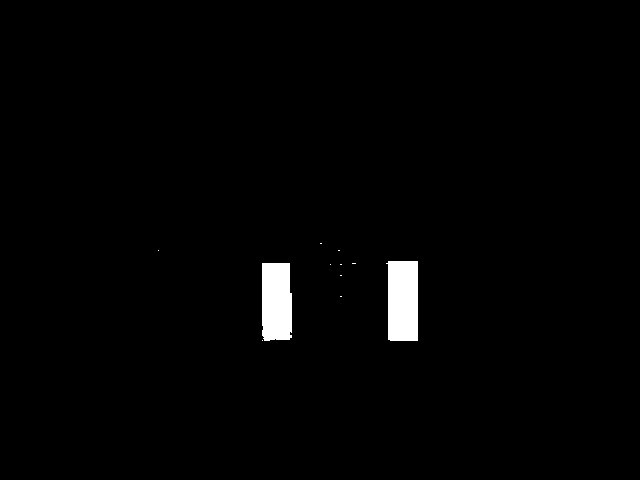
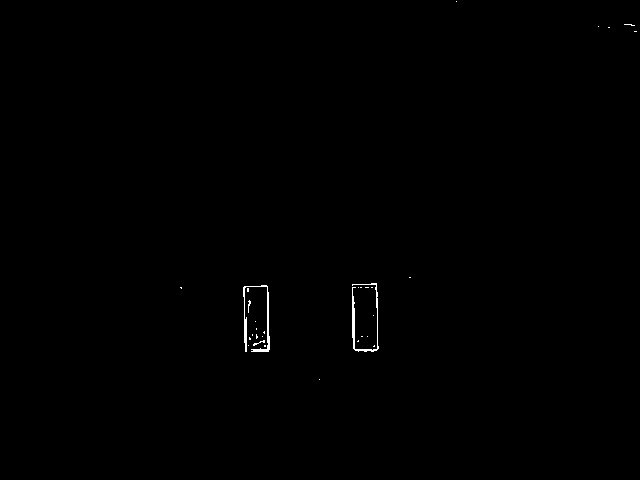
Improved unexpected condition handling related to poor line detection.

diff --git a/src/com/thecharge/HelloOCV.java b/src/com/thecharge/HelloOCV.java
@@ -32,14 +32,14 @@ import javax.swing.*;
 import javax.swing.event.*;
 
 public class HelloOCV {
-	private static final boolean TROUBLESHOOTING_MODE = false;
-	private static final boolean USE_VIDEO = true;
+	private static final boolean TROUBLESHOOTING_MODE = true;
+	private static final boolean USE_VIDEO = false;
 	private static final boolean JPGS_TO_C = true;
 	private static final boolean WRITE_NETW_TBLS = false;
 	private static final boolean INIT_WEBCAM_SETTINGS = false;
 	private static final boolean CALIBRATION_MODE = false;
 	private static boolean jpgMemMgmt = false;		// Recommended to be set true until the memory management issue is solved
-	private static boolean analyzeCamera = true;	// Generate a CSV file tracking camera settings vs results
+	private static boolean analyzeCamera = false;	// Generate a CSV file tracking camera settings vs results
 	private static final int MAX_CALIBR_PASS = 999;
 	private static boolean userStop = false;
 	private static final double INCH_GAP_BETW = 6.25; // Distance between reflective targets
@@ -55,13 +55,13 @@ public class HelloOCV {
 	private static int pxlWidth = 0;
 	private static int pxlHeight = 0;
 	private static int ocvLineCount = 0;
+	private static int tgt1LeftXPtr = 0;
 	private static int tgt1RightXPtr = 0;
 	private static int tgt2LeftXPtr = 0;
 	private static int tgt2RightXPtr = 0;
 	private static double lTgtAccrW = 0;
 	private static double rTgtAccrW = 0;
 	private static int vLineSet = 0; // How many sets of vertical lines are observed
-	private static int tgt1LeftXPtr = 0;
 	private static int calibrPass = 0;
 	private static int calibrPhase = 0;
 	private static double calibrScore = 0;
@@ -70,12 +70,12 @@ public class HelloOCV {
 	private static double tanHlfAngleH = Math.tan(Math.toRadians(HALF_FIELD_ANGLE_H));
 	private static double tanHlfAngleV = Math.tan(Math.toRadians(HALF_FIELD_ANGLE_V));
 	private static double dist2Target = 0;	// Calculated distance to the target in inches
-	private static final double INITIAL_LO_HUE = 40;	//83;	//88;	//40,65,68,32, 73;		//74;
-	private static final double INITIAL_HI_HUE = 71;	//108;	//94;	//142,120,117, 103;	//96;	// 93.99317406143345;
-	private static final double INITIAL_LO_SATURATION = 64;	//112;	//183;	//156,211, 14;	//40;	//45.86330935251798;
-	private static final double INITIAL_HI_SATURATION = 240;	//255;	//250;	//255, 255;	//140;	//153;	// 128.80546075085323;
-	private static final double INITIAL_LO_LUMIN = 131;	//71;	//26;	//89,99,66, 135;	//80.26079136690647;
-	private static final double INITIAL_HI_LUMIN = 242;	//244;	//132;	//133,255,166, 235;	//163.61774744027304;
+	private static final double INITIAL_LO_HUE = 57;	//83;	//88;	//40,65,68,32, 73;		//74;
+	private static final double INITIAL_HI_HUE = 95;	//108;	//94;	//142,120,117, 103;	//96;	// 93.99317406143345;
+	private static final double INITIAL_LO_SATURATION = 63;	//112;	//183;	//156,211, 14;	//40;	//45.86330935251798;
+	private static final double INITIAL_HI_SATURATION = 247;	//255;	//250;	//255, 255;	//140;	//153;	// 128.80546075085323;
+	private static final double INITIAL_LO_LUMIN = 67;	//71;	//26;	//89,99,66, 135;	//80.26079136690647;
+	private static final double INITIAL_HI_LUMIN = 205;	//244;	//132;	//133,255,166, 235;	//163.61774744027304;
 	//LTGym8ft => 81 / 114 / 7 / 140 / 85 / 254
 	//BreakRoom => 71 / 110 / 17 / 253 / 12 / 255
 	//LTGym6f70d.jpg => 83 / 102 / 57 / 255 / 71 / 185
@@ -112,6 +112,8 @@ public class HelloOCV {
 	private static double stdErrT = 0;
 	private static double stdErrB = 0;
 	private static double incrX = 0;
+	private static double minYGoodLine = 0;	// The minimum Y value observed for a line assessed to be part of the target
+	private static double maxYGoodLine = 0;	// The maximum Y value observed for a line assessed to be part of the target
 	private static double nomYTgtTop = 0;
 	private static double nomYTgtBtm = 0;
 	private static double testX1 = 0;
@@ -125,11 +127,11 @@ public class HelloOCV {
 	private static double topIntercept = 0;
 	private static double yAtXFitTL = 0;
 	private static double yAtXFitTR = 0;
+	private static double yAtXFitBL = 0;
+	private static double yAtXFitBR = 0;
 	private static double yFit = 0;
 	private static double bottomSlope = 0;
 	private static double bottomIntercept = 0;
-	private static double yAtXFitBL = 0;
-	private static double yAtXFitBR = 0;
 	private static double bestWt = 0;
 	private static double optLoHue = 0;		// These are the determined optimal values during calibration
 	private static double optHiHue = 0;
@@ -155,7 +157,7 @@ public class HelloOCV {
 	private static boolean revertToJPG = false;
 	private static Mat hslTO;					// The hslThresholdOutput storage matrix
 	private static Mat srcImage;				// The source image
-	private static Number hiPixelValue = 0;
+	//private static Number hiPixelValue = 0;
 	private static int webcamSettings = 0;
 	private static VideoCapture camera = null;
 	
@@ -166,7 +168,7 @@ public class HelloOCV {
 		Mat image = new Mat();
 		
 		if (USE_VIDEO) {
-			camera = new VideoCapture(1);
+			camera = new VideoCapture(0);
 			//camera = new VideoCapture("GymCartApprch.wmv");
 	    	if(!camera.isOpened()){
 				System.out.println("The camera didn't open.");
@@ -236,6 +238,8 @@ public class HelloOCV {
 	    	camSetting = camera.get(Videoio.CAP_PROP_HUE);	
 	    	if (INIT_WEBCAM_SETTINGS) camera.set(Videoio.CAP_PROP_HUE, INITIAL_WC_HUE);	// 3.6305E7, 4.04987E7, 4.3513e7, 3.84e7, //13 - CV_CAP_PROP_HUE Hue of the image (only for cameras).
 	    	
+		} else {
+			analyzeCamera = false;
 		}
 		
 		//Network Table Setup
@@ -255,15 +259,14 @@ public class HelloOCV {
 			calibrPass = MAX_CALIBR_PASS;	// Typically we use 99 to execute one time;
 		}
 		
+		/*
+		// Open up a GUI for user interactivity
         javax.swing.SwingUtilities.invokeLater(new Runnable() {
             public void run() {
                 createAndShowGUI();
             }
-        });
-
-        
-        
-        
+        });  
+        */
         
 		System.out.println("Starting");
 		do {
@@ -326,8 +329,8 @@ public class HelloOCV {
 			executionCount ++;
 			//System.currentTimeMillis()
 			
-		} while ((calibrPass < MAX_CALIBR_PASS) || (USE_VIDEO));
-		//} while (executionCount < 1);
+		//} while ((calibrPass < MAX_CALIBR_PASS) || (USE_VIDEO));
+		} while (executionCount < 1);
 		//} while ((dist2Target == 0) || (Double.toString(dist2Target).equals("NaN")));
 		//} while ((dist2TargetTemp == 0) || (dist2TargetTemp.isNaN()));
 		
@@ -390,7 +393,7 @@ public class HelloOCV {
 			}
 
 			
-			// Create a "matrix" for use during analysis
+			// Create a color "matrix" from the B&W matrix for use during analysis
 			Mat temp = gp.hslThresholdOutput();
 			hslTO = new Mat();
 			Imgproc.cvtColor(temp, hslTO, Imgproc.COLOR_GRAY2BGR);
@@ -453,6 +456,34 @@ public class HelloOCV {
 				// While we hope for four vertical lines, choose the best four if there are more
 				findFourBestVLines(totalizedVerticalLen, nominalVerticalLineX);
 				
+				// Establish upper and lower limits on our horizontal line Y values just in case
+				minYGoodLine = pxlHeight;
+				if (minYGoodLine > yMinVerticalLineSet[tgt1LeftXPtr]) {
+					minYGoodLine = yMinVerticalLineSet[tgt1LeftXPtr];
+				}
+				if (minYGoodLine > yMinVerticalLineSet[tgt1RightXPtr]) {
+					minYGoodLine = yMinVerticalLineSet[tgt1RightXPtr];
+				}
+				if (minYGoodLine > yMinVerticalLineSet[tgt2LeftXPtr]) {
+					minYGoodLine = yMinVerticalLineSet[tgt2LeftXPtr];
+				}
+				if (minYGoodLine > yMinVerticalLineSet[tgt2RightXPtr]) {
+					minYGoodLine = yMinVerticalLineSet[tgt2RightXPtr];
+				}
+				
+				if (maxYGoodLine < yMaxVerticalLineSet[tgt1LeftXPtr]) {
+					maxYGoodLine = yMaxVerticalLineSet[tgt1LeftXPtr];
+				}
+				if (maxYGoodLine < yMaxVerticalLineSet[tgt1RightXPtr]) {
+					maxYGoodLine = yMaxVerticalLineSet[tgt1RightXPtr];
+				}
+				if (maxYGoodLine < yMaxVerticalLineSet[tgt2LeftXPtr]) {
+					maxYGoodLine = yMaxVerticalLineSet[tgt2LeftXPtr];
+				}
+				if (maxYGoodLine < yMaxVerticalLineSet[tgt2RightXPtr]) {
+					maxYGoodLine = yMaxVerticalLineSet[tgt2RightXPtr];
+				}
+				
 				if (bestWt > 0) {
 					// Find the horizontal lines of the targets
 					double[] xMinHorizontalLine = new double[ocvLineCount]; // Minimum y coordinate of the particular vertical line
@@ -460,7 +491,7 @@ public class HelloOCV {
 					double[] xMinHorizontalLineSet = new double[ocvLineCount]; // Minimum y coordinate of the particular vertical line set
 					double[] xMaxHorizontalLineSet = new double[ocvLineCount]; // Maximum y coordinate of the particular vertical line set
 					
-					// Having chosen our four best lines, determine where we'll look for our horizontal boundaries of the targets
+					// Having chosen our four best vertical lines, determine where we'll look for our horizontal boundaries of the targets
 					findHorizontalLines(edgeID, targetLines, nominalVerticalLineX, yMinVerticalLineSet, yMaxVerticalLineSet, xMinHorizontalLine, xMaxHorizontalLine, xMinHorizontalLineSet, xMaxHorizontalLineSet);
 					
 					// While actually derived some time ago, write to file the HSL output
@@ -591,7 +622,9 @@ public class HelloOCV {
 		yAtXFitBL = 0;
 		yAtXFitBR = 0;
 		percHLFPts = 0;
-		hiPixelValue = 0;
+		minYGoodLine = 0;
+		maxYGoodLine = 0;
+		//hiPixelValue = 0;
 	}
 	
 	private static void printLineFit() throws IOException {
@@ -634,6 +667,7 @@ public class HelloOCV {
 			//jpgFile = new String("ConfRoom12in.jpg");
 			//jpgFile = new String("ConfRoom104in.jpg");
 			//jpgFile = new String("KitchLtOn20in60d.jpg");
+			jpgFile = new String("KtchGrTgtTape50in0d.jpg");
 			//jpgFile = new String("KitchLtOn46in45d.jpg");
 			//jpgFile = new String("OriginalVImage.jpg");
 			//jpgFile = new String("LTGym6f45d.jpg");
@@ -641,7 +675,7 @@ public class HelloOCV {
 			//jpgFile = new String("LTGym8ft.jpg");
 			//jpgFile = new String("LTGym18ft.jpg"); 
 			//jpgFile = new String("BreakRoom0221.jpg");
-			jpgFile = new String("TestImage1.jpg");
+			//jpgFile = new String("TestImage1.jpg");
 			//jpgFile = new String("Image_for_PostAnalysis.jpg");
 		}
 
@@ -1054,6 +1088,8 @@ public class HelloOCV {
 		// While this isn't yet a percent, we start by totaling the points found
 		percHLFPts = ptCount;
 		
+		if (ptCount == 0) ptCount = 1;
+		
 		double xbar = sumx / ptCount;
 		double ybar = sumy / ptCount;
 		
@@ -1070,19 +1106,28 @@ public class HelloOCV {
         }
         
         // Finally, calculate the slope and y intercept of the best fit top line
-        topSlope = (ptCount * xybar) - (sumx * sumy);
-        topSlope = topSlope / ((ptCount * xxbar) - (sumx * sumx));
-        topIntercept = (ybar - topSlope * xbar);
+        if (ptCount > 0) {
+	        topSlope = (ptCount * xybar) - (sumx * sumy);
+	        topSlope = topSlope / ((ptCount * xxbar) - (sumx * sumx));
+	        topIntercept = (ybar - topSlope * xbar);
+        } else {
+        	topSlope = 0;
+        	topIntercept = maxYGoodLine;
+        }        	
         
         // At least while we want quality estimates, calculate error data from the linefit
-        for (int i = 0; i < 12; i++) {
-        	if (yAtYfind[i] > 0) {
-        		yFit = topSlope * xAtYfind[i] + topIntercept;
-        		y1AtYfind[i] += (yFit - yAtYfind[i]) * (yFit - yAtYfind[i]);
-        		stdErrT = y1AtYfind[i] / ptCount;	// This will only be "correct" at the last point
-        	}
+        if (ptCount > 0) {
+        	for (int i = 0; i < 12; i++) {
+	        	if (yAtYfind[i] > 0) {
+	        		yFit = topSlope * xAtYfind[i] + topIntercept;
+	        		y1AtYfind[i] += (yFit - yAtYfind[i]) * (yFit - yAtYfind[i]);
+	        		stdErrT = y1AtYfind[i] / ptCount;	// This will only be "correct" at the last point
+	        	}
+	        }
+	        stdErr = Math.sqrt(stdErrT);
+        } else {
+        	stdErr = 50;
         }
-        stdErr = Math.sqrt(stdErrT);
         
 		if (TROUBLESHOOTING_MODE) System.out.println("Determined slope / intercept of " + Double.toString(topSlope) + " / " + Double.toString(topIntercept));
         yAtXFitTL = topSlope * nomXTgt1L + topIntercept;
@@ -1176,6 +1221,8 @@ public class HelloOCV {
 		percHLFPts += ptCount;
 		percHLFPts = percHLFPts / 24;		// We're looking for a total of 24 points to linefit top and bottom
 		
+		if (ptCount == 0) ptCount = 1;
+		
 		xbar = sumx / ptCount;
 		ybar = sumy / ptCount;
 		
@@ -1192,20 +1239,26 @@ public class HelloOCV {
 			}
         }
         
-        // Finally, calculate the slope and y intercept of the best fit "bottom" line
-        bottomSlope = (ptCount * xybar) - (sumx * sumy);					// Numerator
-        bottomSlope = bottomSlope / ((ptCount * xxbar) - (sumx * sumx));	// Numerator / Denominator
-        bottomIntercept = (ybar - bottomSlope * xbar);
-
-        // At least while we want quality estimates, calculate error data from the linefit
-        for (int i = 0; i < 12; i++) {
-        	if (yAtYfind[i] > 0) {
-        		yFit = bottomSlope * xAtYfind[i] + bottomIntercept;
-        		y1AtYfind[i] += (yFit - yAtYfind[i]) * (yFit - yAtYfind[i]);
-        		stdErrB = y1AtYfind[i] / ptCount;	// This will only be "correct" at the last point
-        	}
+        if (ptCount > 0) {
+	        // Finally, calculate the slope and y intercept of the best fit "bottom" line
+	        bottomSlope = (ptCount * xybar) - (sumx * sumy);					// Numerator
+	        bottomSlope = bottomSlope / ((ptCount * xxbar) - (sumx * sumx));	// Numerator / Denominator
+	        bottomIntercept = (ybar - bottomSlope * xbar);
+	
+	        // At least while we want quality estimates, calculate error data from the linefit
+	        for (int i = 0; i < 12; i++) {
+	        	if (yAtYfind[i] > 0) {
+	        		yFit = bottomSlope * xAtYfind[i] + bottomIntercept;
+	        		y1AtYfind[i] += (yFit - yAtYfind[i]) * (yFit - yAtYfind[i]);
+	        		stdErrB = y1AtYfind[i] / ptCount;	// This will only be "correct" at the last point
+	        	}
+	        }
+	        stdErr += Math.sqrt(stdErrB);
+        } else {
+        	bottomSlope = 0;
+        	bottomIntercept = minYGoodLine;
+        	stdErr += 50;
         }
-        stdErr += Math.sqrt(stdErrB);
         
 		//if (TROUBLESHOOTING_MODE) System.out.println("Determined slope / intercept of " + Double.toString(bottomSlope) + " / " + Double.toString(bottomIntercept));
         yAtXFitBL = bottomSlope * nomXTgt1L + bottomIntercept;
@@ -1405,7 +1458,11 @@ public class HelloOCV {
 				}
 			}
 		}
-		nomYTgtTop = nomYTgtTop / useCount;
+		if (useCount > 0) {
+			nomYTgtTop = nomYTgtTop / useCount;
+		} else {
+			nomYTgtTop = maxYGoodLine;
+		}
 		
 		// Throwing out outliers, estimate the Y value for the bottom of the target
 		useCount = 0;
@@ -1432,7 +1489,11 @@ public class HelloOCV {
 				}
 			}
 		}
-		nomYTgtBtm = nomYTgtBtm / useCount;
+		if (useCount > 0) {
+			nomYTgtBtm = nomYTgtBtm / useCount;
+		} else {
+			nomYTgtBtm = minYGoodLine;
+		}
 		
 		if (TROUBLESHOOTING_MODE) System.out.println("The top of the target is estimated at " + Double.toString(nomYTgtTop));
 		if (TROUBLESHOOTING_MODE) System.out.println("The bottom of the target is estimated at " + Double.toString(nomYTgtBtm));
@@ -1768,8 +1829,7 @@ public class HelloOCV {
 							testY1 = targetLines[y].ocvY2;
 							testY2 = targetLines[y].ocvY1;
 						}	
-							
-							
+						
 						if (diffVLCount == 0) {
 							//if (TROUBLESHOOTING_MODE) System.out.println("Initializing resulting vertical line " + Integer.toString(x));
 							// Prepare either to compare this segment with other segments in hope of appending vertical lines...
